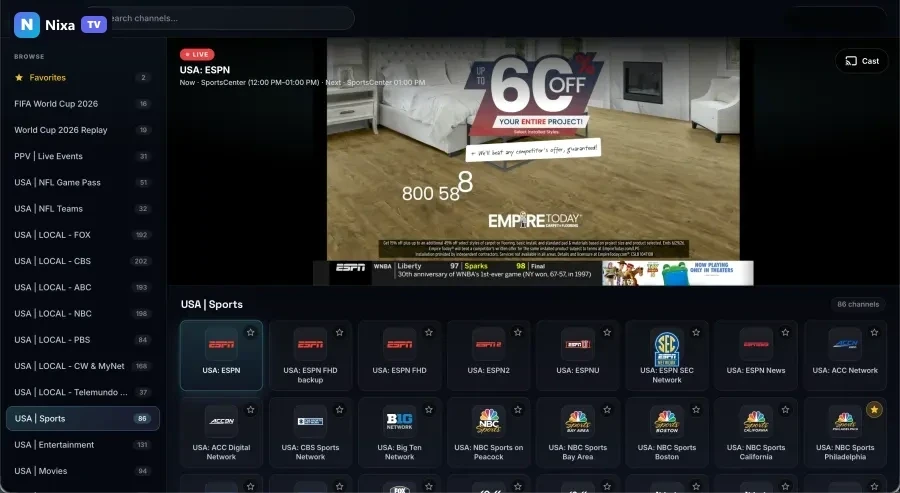
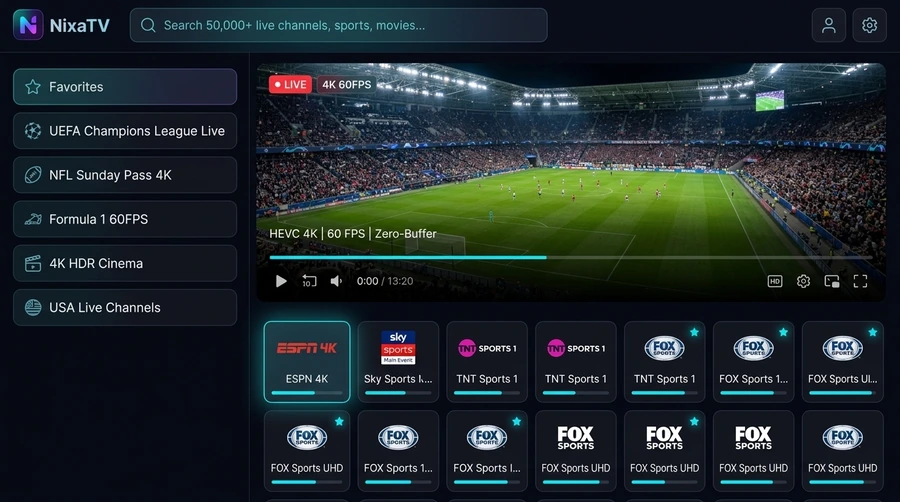
Update NixaTV Web Player UI with newly generated high-tech interface

diff --git a/src/components/home/IPTVMockupUI.tsx b/src/components/home/IPTVMockupUI.tsx
@@ -41,7 +41,7 @@ export default function IPTVMockupUI() {
           alt="NixaTV Web Player 4K Interface - 50,000+ Live Channels & Sports"
           title="NixaTV Web Player 4K Ultra HD Interface"
           width={900}
-          height={506}
+          height={502}
           priority
           unoptimized
           className="w-full h-auto object-cover rounded-xl group-hover/img:scale-[1.01] transition-transform duration-500"
